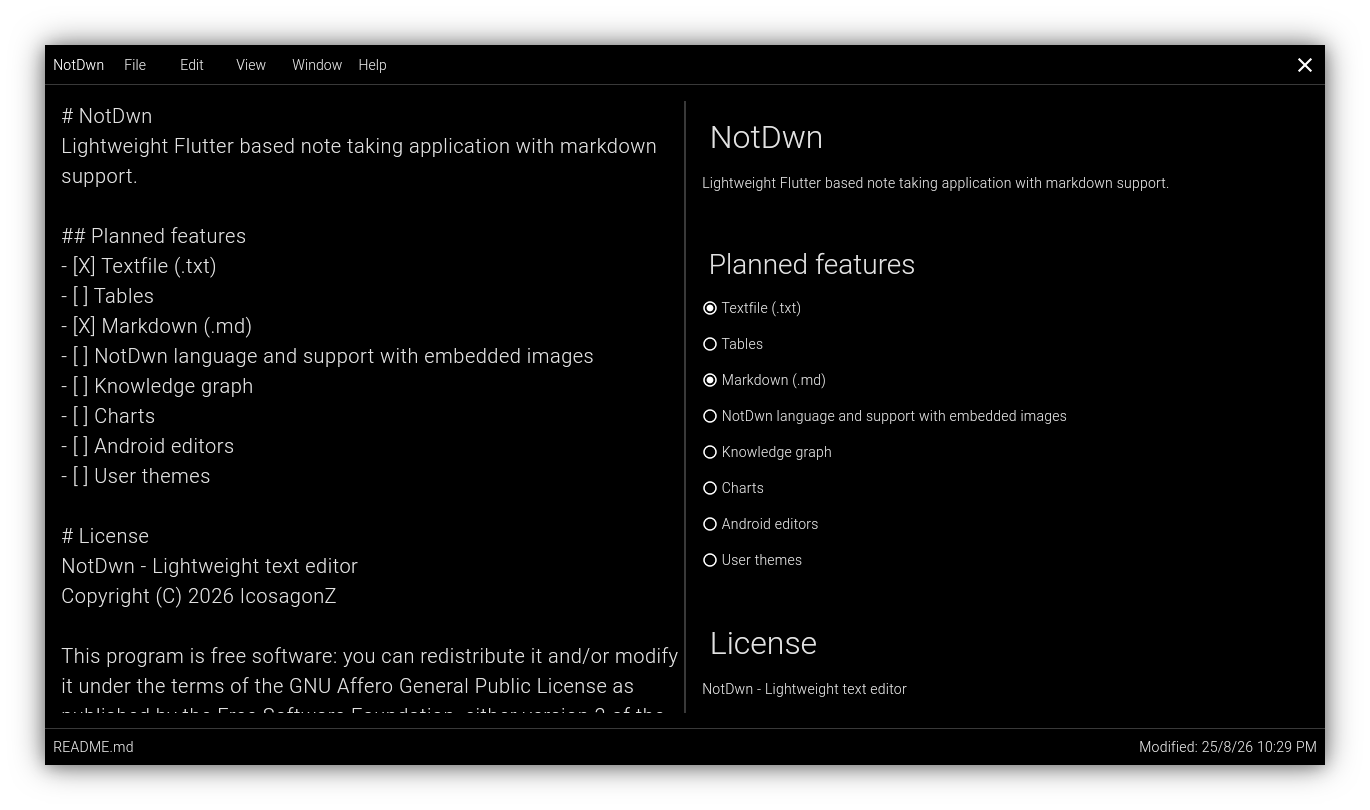
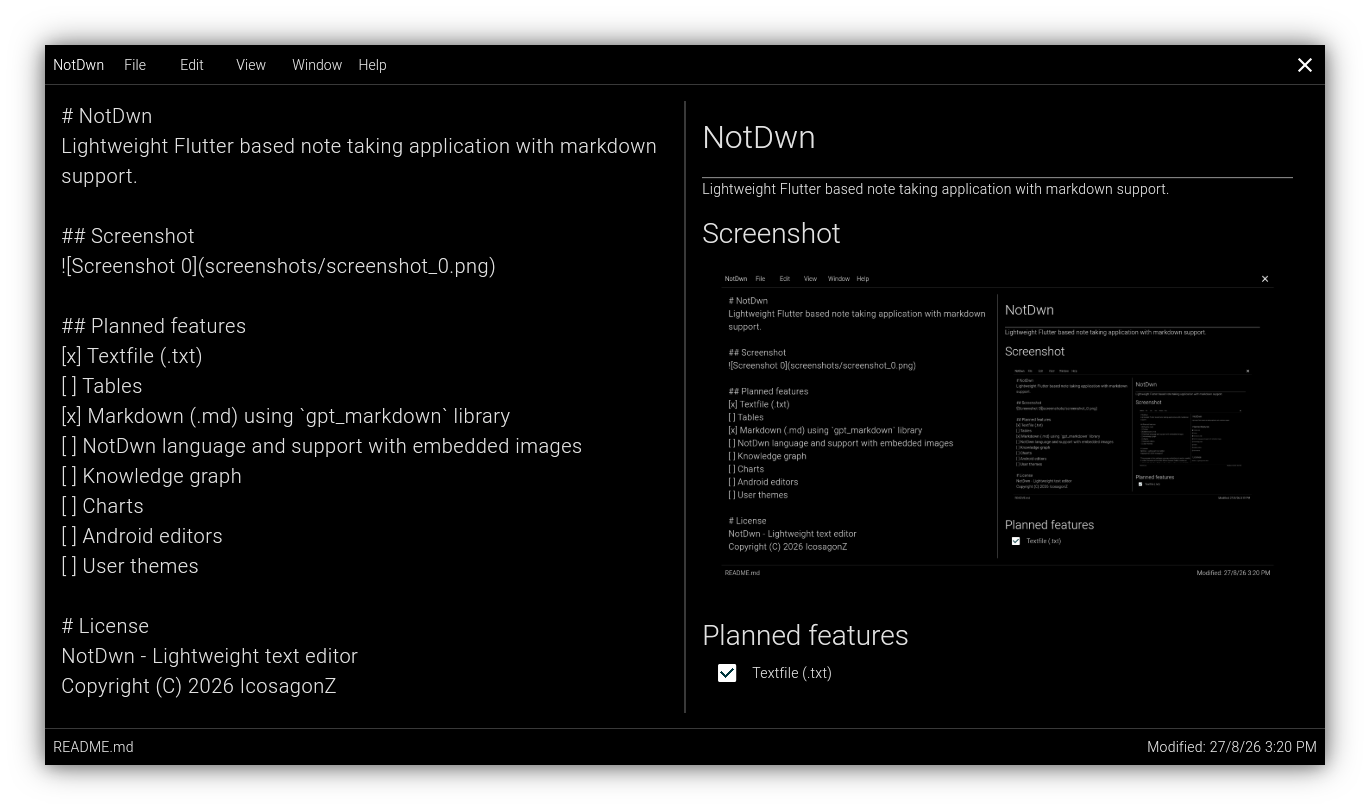
Upgraded to use gpt_markdown markdown renderer

diff --git a/lib/pages/editor.dart b/lib/pages/editor.dart
@@ -1,15 +1,17 @@
 // Editor page
 
-import 'package:material_ui/material_ui.dart';
 import 'package:flutter/services.dart';
-
-import 'package:provider/provider.dart';
-import 'package:window_manager/window_manager.dart';
-import 'package:split_view/split_view.dart';
-import 'package:intl/intl.dart';
+import 'package:flutter/material.dart' as legacy_material;
+import 'package:material_ui/material_ui.dart';
 
 import 'dart:async';
 
+import 'package:provider/provider.dart';
+import 'package:window_manager/window_manager.dart';
+import 'package:intl/intl.dart';
+
+import 'package:split_view/split_view.dart';
+import 'package:gpt_markdown/gpt_markdown.dart';
 
 import '../dialogs/snackbar.dart';
 import '../dialogs/about.dart';
@@ -18,7 +20,9 @@ import '../dialogs/help.dart';
 import '../handlers/settings.dart';
 import '../handlers/filehandler.dart';
 
-import '../renderers/markdown.dart';
+import 'dart:io';
+
+//import '../renderers/markdown.dart';
 
 class EditorPage extends StatefulWidget
 {
@@ -86,25 +90,43 @@ class _EditorPageState extends State<EditorPage> {
   }
 
   // UI statistics
-  String statFileName = "Nothing opened";
-  String statFilePath = "N/A";
+  String? uiFileName;
+  String? uiFilePath;
 
-  DateTime? statLastModified;
-  String statLastModifiedText = "Never";
+  DateTime? uiLastModified;
+  String uiLastModifiedText = "Never";
 
-  void uiRefreshStatistics() async{
+  Future<void> uiUpdate() async{
 
     dateTimeCurrent = DateTime.now();
-    statLastModified = await fileHandler.lastModified();
-    statLastModifiedText = "Never";
+    uiLastModified = await fileHandler.lastModified();
 
     setState(() {
       // Basic details
-      statFileName = fileHandler.fileName ?? "Nothing opened";
-      statFilePath =fileHandler.filePath ?? "N/A";
-      fileIsMarkdown = statFileName.endsWith(".md");
+      uiFileName = fileHandler.fileName;
+      uiFilePath =fileHandler.filePath;
 
-      statLastModifiedText = DateFormat("d/M/yy h:mm a").format(statLastModified!);
+      if(uiFileName!=null){
+        fileIsMarkdown = uiFileName!.endsWith(".md");
+      }
+      else{
+        fileIsMarkdown = false;
+      }
+
+      // Hide markdown view if not .md, else show if already showing
+      if(viewMarkdown==true)
+      {
+        if(fileIsMarkdown==false){
+          viewMarkdownDisable();
+        }
+      }
+
+      if(uiLastModified==null){
+        uiLastModifiedText = "Never";
+      }
+      else{
+        uiLastModifiedText = DateFormat("d/M/yy h:mm a").format(uiLastModified!);
+      }
     });
   }
 
@@ -124,11 +146,11 @@ class _EditorPageState extends State<EditorPage> {
   }
 
   // UI and file handler interactions
-  void fileHandlerNew(){
+  void fileHandlerNew() async{
     editorController.text = "";
     fileHandler.newFile();
 
-    uiRefreshStatistics();
+    uiUpdate();
   }
   void fileHandlerOpen() async{
     final result = await fileHandler.openFile();
@@ -141,7 +163,20 @@ class _EditorPageState extends State<EditorPage> {
       editorController.text = result.data!;
     }
 
-    uiRefreshStatistics();
+    uiUpdate();
+  }
+  void fileHandlerReload() async{
+    final result = await fileHandler.reopenFile();
+
+    if(mounted){
+      dialogSnackbar.showSnackBar(context, result.message, result.status);
+    }
+
+    if(result.status==0){
+      editorController.text = result.data!;
+    }
+
+    uiUpdate();
   }
   void fileHandlerSave() async{
     final result = await fileHandler.saveFile(editorController.text);
@@ -150,7 +185,7 @@ class _EditorPageState extends State<EditorPage> {
       dialogSnackbar.showSnackBar(context, result.message, result.status);
     }
 
-    uiRefreshStatistics();
+    uiUpdate();
   }
   void fileHandlerSaveAs() async{
     final result = await fileHandler.saveFileAs(editorController.text);
@@ -159,7 +194,7 @@ class _EditorPageState extends State<EditorPage> {
       dialogSnackbar.showSnackBar(context, result.message, result.status);
     }
 
-    uiRefreshStatistics();
+    uiUpdate();
   }
 
   // Misc actions
@@ -202,6 +237,43 @@ class _EditorPageState extends State<EditorPage> {
     setState(() {
       viewIsDarkMode = settings.settingsIsDarkMode;
     });
+  }
+
+  void viewMarkdownEnable(){
+    uiUpdateDisplayText();
+    splitViewController.weights = [0.5, 0.5];
+    uiUpdateTimerEnable();
+
+    setState(() {
+      viewMarkdown = true;
+    });
+  }
+
+  void viewMarkdownDisable(){
+    uiUpdateTimerDisable();
+    splitViewController.weights = [1, 0];
+
+    setState(() {
+      viewMarkdown = false;
+    });
+  }
+
+  void viewMarkdownToggle() {
+    if(fileIsMarkdown){
+      if(viewMarkdown){
+        viewMarkdownDisable();
+      }
+      else{
+        viewMarkdownEnable();
+      }
+    }
+    else{
+      dialogSnackbar.showSnackBar(
+        context,
+        "Current file is not markdown",
+        0
+      );
+    }
   }
 
   // Widgets
@@ -265,6 +337,40 @@ class _EditorPageState extends State<EditorPage> {
         //cursorColor: colorPrimary,
       ),
     );
+  }
+
+  Widget componentImage(String url, double? width, double? height){
+
+    if(url.startsWith("http://") || url.startsWith("https://")){
+      return Image.network(
+        url,
+        width: width,
+        height: height,
+      );
+    }
+    else if(url.startsWith("assets/")){
+      return Image.asset(
+        url,
+        width: width,
+        height: height,
+      );
+    }
+    else{
+      if(uiFilePath!=null){
+        final imagePath = uiFilePath!.replaceAll("$uiFileName", url);
+
+        return Image.file(
+          File(imagePath),
+          width: width,
+          height: height,
+        );
+      }
+      else{
+        return Icon(
+          Icons.error
+        );
+      }
+    }
   }
 
   @override
@@ -342,6 +448,17 @@ class _EditorPageState extends State<EditorPage> {
                                 menuController.close();
                                 fileHandlerOpen();
                               },
+                            ),
+                            Visibility(
+                              visible: uiFileName!=null,
+                              child: MenuItemButton(
+                                leadingIcon: Icon(Icons.refresh),
+                                child: Text("Reload"),
+                                onPressed: (){
+                                  menuController.close();
+                                  fileHandlerReload();
+                                },
+                              ),
                             ),
                             Divider(),
                             MenuItemButton(
@@ -460,28 +577,7 @@ class _EditorPageState extends State<EditorPage> {
                               ),
                               child: Text("Markdown render"),
                               onPressed: (){
-                                if(fileIsMarkdown){
-                                  if(viewMarkdown)
-                                  {
-                                    uiUpdateTimerDisable();
-                                    splitViewController.weights = [1, 0];
-                                  }
-                                  else{
-                                    uiUpdateDisplayText();
-                                    splitViewController.weights = [0.5, 0.5];
-                                    uiUpdateTimerEnable();
-                                  }
-                                  setState(() {
-                                    viewMarkdown = !viewMarkdown;
-                                  });
-                                }
-                                else{
-                                  dialogSnackbar.showSnackBar(
-                                    context,
-                                    "Current file is not markdown",
-                                    0
-                                  );
-                                }
+                                viewMarkdownToggle();
                               },
                             ),
                             Divider(),
@@ -576,10 +672,29 @@ class _EditorPageState extends State<EditorPage> {
                   editorWidget(),
                   Padding(
                     padding: .all(16),
+                    child: SingleChildScrollView(
+                      child: MaterialUiCompatibilityBridge(
+                        child: legacy_material.Material(
+                          child: GptMarkdown(
+                            displayText,
+                            isStreaming: true,
+                            charactersPerSecond: 100,
+
+                            imageBuilder:(context, url, width, height) {
+                              return componentImage(url, width, height);
+                            },
+                          ),
+                        ),
+                      )
+                    )
+                  )
+                  /*
+                  Padding(
+                    padding: .all(16),
                     child: ListView(
                       children: markdownProcess(context, displayText),
                     ),
-                  )
+                  )*/
                 ],
               ) : editorWidget(),
             )
@@ -594,10 +709,10 @@ class _EditorPageState extends State<EditorPage> {
             child: Row(
               children: [
                 Expanded(
-                  child: Text(statFileName)
+                  child: Text(uiFileName ?? "Nothing opened")
                 ),
                 Divider(),
-                Text("Modified: $statLastModifiedText")
+                Text("Modified: $uiLastModifiedText")
               ],
             )
           )

diff --git a/lib/handlers/filehandler.dart b/lib/handlers/filehandler.dart
@@ -71,6 +71,24 @@ class FileHandler{
     );
   }
 
+  Future<FileHandlerReturn> reopenFile() async{
+    if(filePath==null){
+      return FileHandlerReturn(
+        status: 1,
+        message: "File path null"
+      );
+    }
+
+    File file = File(filePath!);
+    String fileContent = await file.readAsString();
+
+    return FileHandlerReturn(
+      status: 0,
+      message: "File reopened",
+      data: fileContent
+    );
+  }
+
   Future<FileHandlerReturn> saveFile(String data) async{
     if(data.isEmpty){
       return FileHandlerReturn(

diff --git a/README.md b/README.md
@@ -1,18 +1,18 @@
 # NotDwn
-Lightweight Flutter based note taking application with markdown support.
+Lightweight Flutter based text editor with markdown support.
 
 ## Screenshot
-<img src="screenshots/screenshot_0.png" alt="Screenshot of editor"/>
+![Screenshot 0](screenshots/screenshot_0.png)
 
 ## Planned features
-- [X] Textfile (.txt)
-- [ ] Tables
-- [X] Markdown (.md)
-- [ ] NotDwn language and support with embedded images
-- [ ] Knowledge graph
-- [ ] Charts
-- [ ] Android editors
-- [ ] User themes
+[x] Textfile (.txt)
+[ ] Tables
+[x] Markdown (.md) using `gpt_markdown` library
+[ ] NotDwn language and support with embedded images
+[ ] Knowledge graph
+[ ] Charts
+[ ] Android editors
+[ ] User themes
 
 # License
 NotDwn - Lightweight text editor
